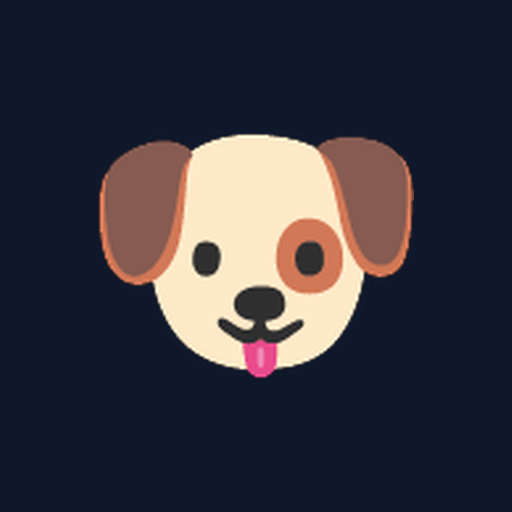
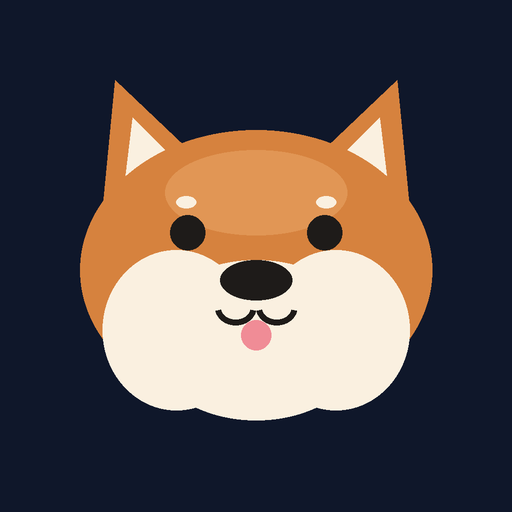
入口頁：App 圖示改為柴犬頭像，版本號更新
Claude-Session: https://claude.ai/code/session_018WoQN4UTXGKGS2TM6guR2t

diff --git a/index.html b/index.html
@@ -15,10 +15,10 @@
   
   <!-- CSS Stylesheet (Cache Busted v1.0.39) -->
   <link rel="stylesheet" href="style.css?v=1.0.40">
-  <link rel="manifest" href="manifest.json?v=2">
+  <link rel="manifest" href="manifest.json?v=3">
   <meta name="theme-color" content="#0f172a">
-  <link rel="icon" href="icons/icon-192.png?v=2">
-  <link rel="apple-touch-icon" href="icons/icon-192.png?v=2">
+  <link rel="icon" href="icons/icon-192.png?v=3">
+  <link rel="apple-touch-icon" href="icons/icon-192.png?v=3">
 </head>
 <body class="theme-dark">
 
